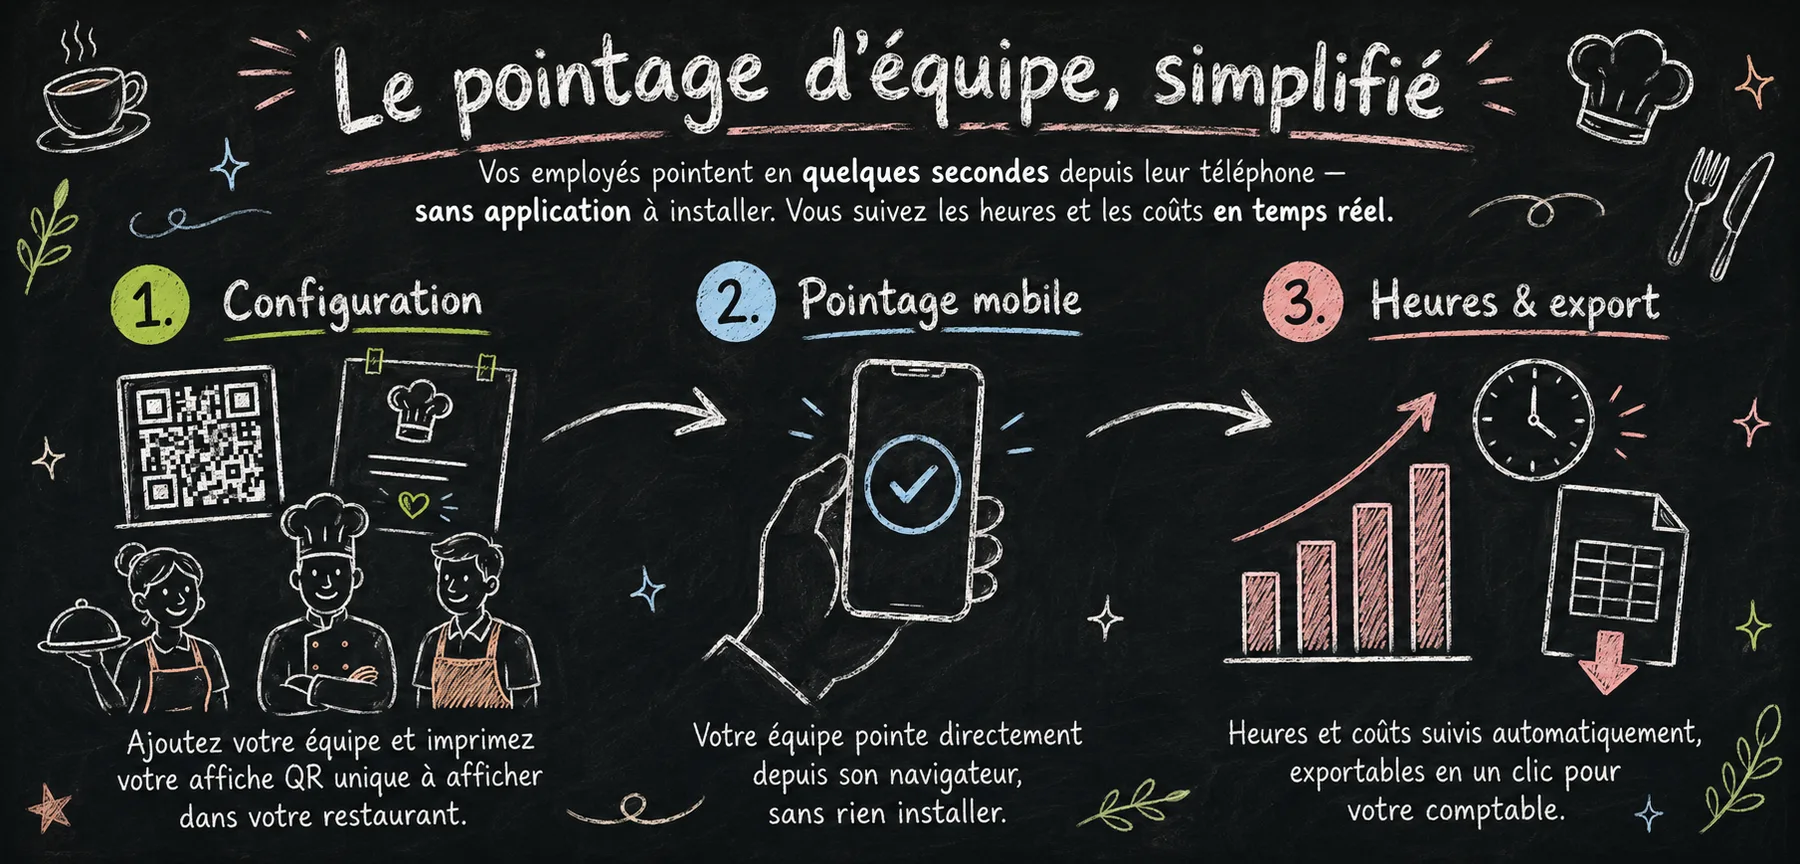
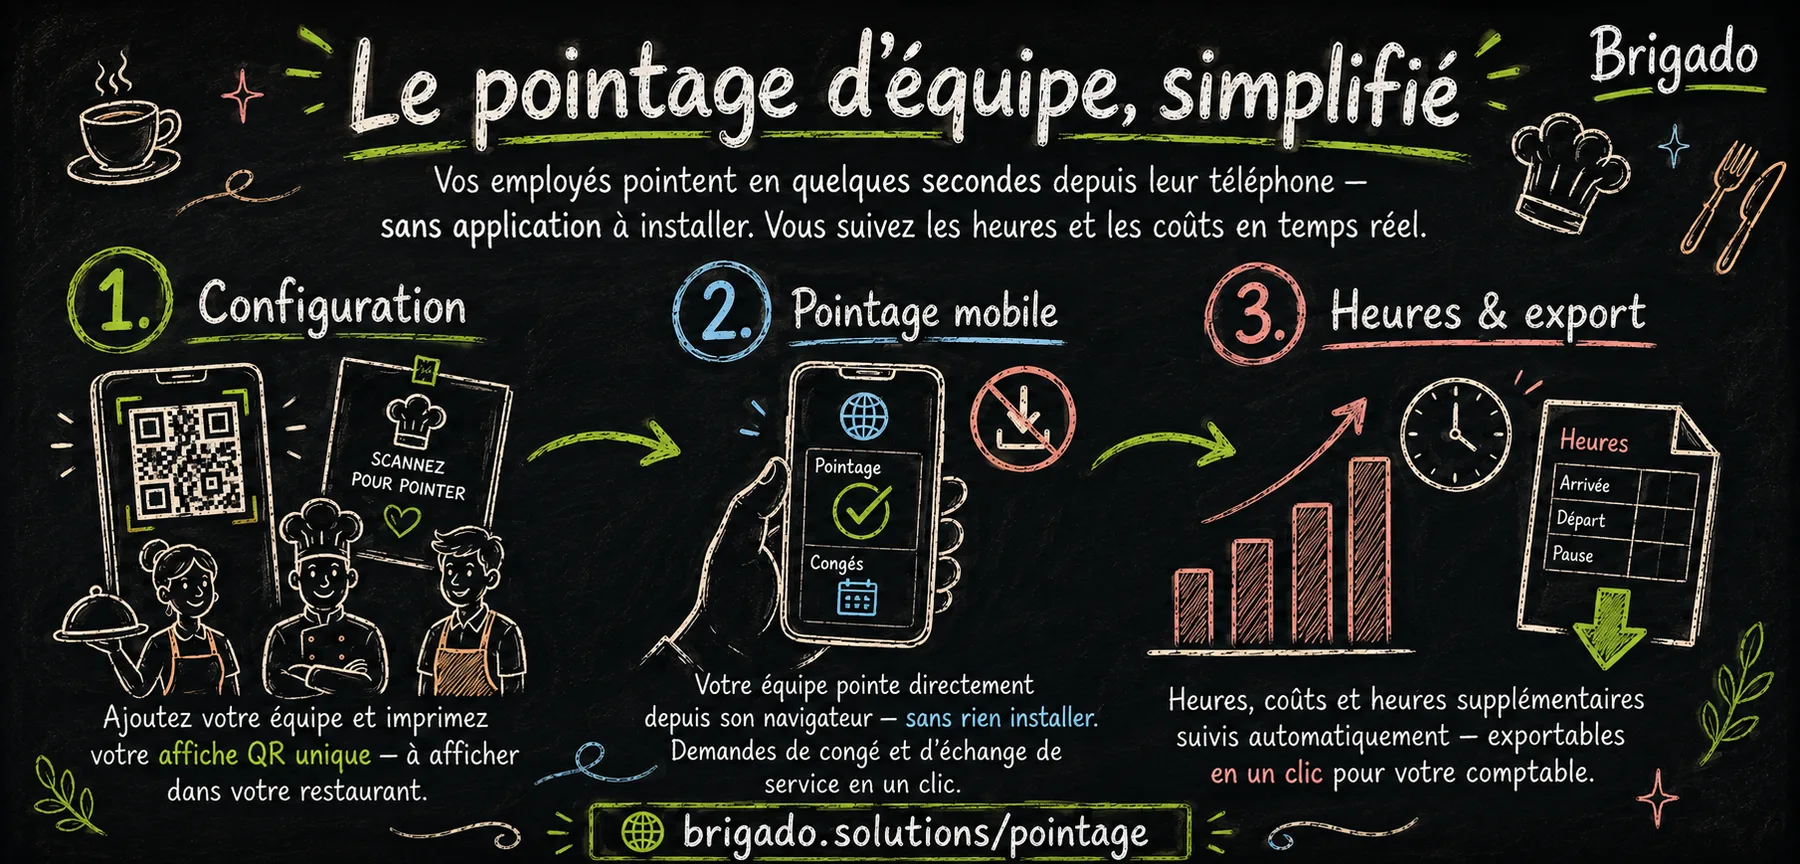
Landing: updated chalkboard artwork, no heading, seam-free frame
Replaces the How-it-works illustration with the revised version (Brigado
wordmark, refined step icons, decorative site URL — the /pointage text is
artwork only, no route or link). Drops the "Comment ça marche" heading so
the image sits in the initial viewport, and sets the card background to
the artwork's own chalkboard black (#050607) instead of slate-900 to kill
the visible seam where the image met its frame.

Changed region(s): [[0.0, 0.0312, 0.9956, 1.0], [0.5911, 0.6875, 0.6222, 0.7188]]

diff --git a/src/components/Landing.tsx b/src/components/Landing.tsx
@@ -93,18 +93,16 @@ export default function Landing() {
 
       {/* HOW IT WORKS */}
       <div className="max-w-5xl mx-auto px-6 pb-20">
-        <div className="text-center mb-10">
-          <h2 className="text-xl font-bold">{t("howTitle")}</h2>
-          <div className="mx-auto mt-3 h-px w-16 bg-gradient-to-r from-transparent via-lime-400/60 to-transparent" />
-        </div>
         {lang === "fr" ? (
           /* The illustration has French text baked in, so it's FR-only;
-             English visitors get the text-based steps below instead. */
+             English visitors get the text-based steps below instead.
+             bg matches the artwork's own chalkboard black (#050607) so the
+             image blends into its frame without a visible seam. */
           <div className="max-w-3xl mx-auto">
-            <div className="bg-slate-900 border border-slate-800 rounded-2xl p-4 sm:p-6">
+            <div className="bg-[#050607] border border-slate-800 rounded-2xl p-4 sm:p-6">
               <img
                 src={howItWorks}
-                alt="Trois étapes : configuration de l'équipe et affiche QR, pointage mobile sans application, suivi des heures et export pour votre comptable"
+                alt="Trois étapes : configuration de l'équipe et affiche QR à scanner, pointage mobile depuis le navigateur avec demandes de congé, suivi des heures et coûts exportables pour votre comptable"
                 className="w-full h-auto rounded-lg"
               />
             </div>
